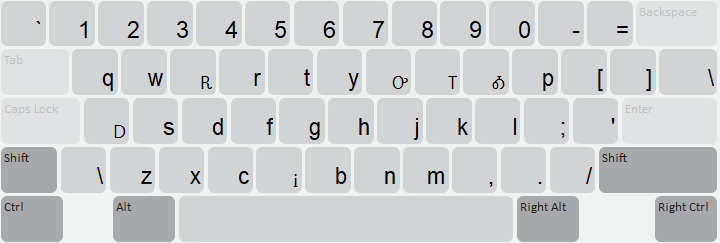
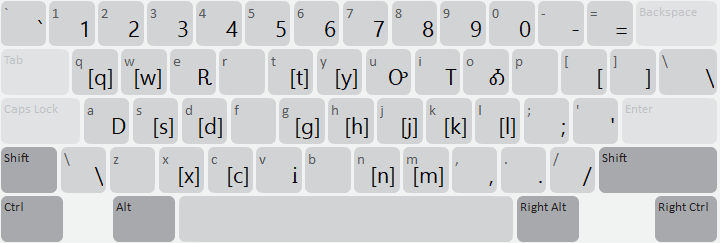
[basic_kbdcherp] Improve documentation of deadkeys

diff --git a/release/basic/basic_kbdcherp/source/welcome/welcome.htm b/release/basic/basic_kbdcherp/source/welcome/welcome.htm
@@ -63,23 +63,29 @@ item. The keyboard layout follows the Windows 10 Cherokee Nation Phonetic layout
 </p>
 
 <h1>Keyboard Layout</h1>
+<p>This keyboard utilizes dead keys to reach the Cherokee characters. The dead keys on this layout have square brackets around them. For example, "[q]" is a dead key.</p>
+
+  <h2>Desktop Keyboard layout</h2>
+	<h3>Default (unshifted)</h3>
+	<p><a href="LayoutU_.png"><img class="keyboard" src="LayoutU_.png" alt="Default (unshifted) state" /></a></p>
+	<h3>Shift</h3>
+	<p><a href="LayoutU_S.png"><img class="keyboard" src="LayoutU_S.png" alt="Shift state" /></a></p>
 
 <h2>Dead keys</h2>
-<pThis keyboard utilizes dead keys to reach the Cherokee characters.</p>
+<p>This keyboard utilizes dead keys to reach the Cherokee characters.</p>
 <p>Type the dead key (such as a "q") followed by a character in second row. The output will be the corresponding cell beneath the last character that was typed</p>
-<div class="group"><table class="" title="q"><tr><th colspan="7">q or Q</th></tr><tr><td title="U+0020 SPACE">&nbsp;</td><td title="U&#x2B;13A0 CHEROKEE LETTER A">Ꭰ</td><td title="U&#x2B;13A1 CHEROKEE LETTER E">Ꭱ</td><td title="U&#x2B;13A2 CHEROKEE LETTER I">Ꭲ</td><td title="U&#x2B;13A3 CHEROKEE LETTER O">Ꭳ</td><td title="U&#x2B;13A4 CHEROKEE LETTER U">Ꭴ</td><td title="U&#x2B;13A5 CHEROKEE LETTER V">Ꭵ</td></tr><tr><td title="U&#x2B;13CA CHEROKEE LETTER QUU">Ꮚ</td><td title="U&#x2B;13C6 CHEROKEE LETTER QUA">Ꮖ</td><td title="U&#x2B;13C7 CHEROKEE LETTER QUE">Ꮗ</td><td title="U&#x2B;13C8 CHEROKEE LETTER QUI">Ꮘ</td><td title="U&#x2B;13C9 CHEROKEE LETTER QUO">Ꮙ</td><th title="→ chained dead key 'QU'">Α</th><td title="U&#x2B;13CB CHEROKEE LETTER QUV">Ꮛ</td></tr></table></div>
+<div class="group"><table class="" title="q"><tr><th colspan="7">q or Q</th></tr><tr><td title="U+0020 SPACE">&nbsp;</td><td title="U&#x2B;13A0 CHEROKEE LETTER A">Ꭰ</td><td title="U&#x2B;13A1 CHEROKEE LETTER E">Ꭱ</td><td title="U&#x2B;13A2 CHEROKEE LETTER I">Ꭲ</td><td title="U&#x2B;13A3 CHEROKEE LETTER O">Ꭳ</td><td title="U&#x2B;13A5 CHEROKEE LETTER V">Ꭵ</td></tr><tr><td title="U&#x2B;13CA CHEROKEE LETTER QUU">Ꮚ</td><td title="U&#x2B;13C6 CHEROKEE LETTER QUA">Ꮖ</td><td title="U&#x2B;13C7 CHEROKEE LETTER QUE">Ꮗ</td><td title="U&#x2B;13C8 CHEROKEE LETTER QUI">Ꮘ</td><td title="U&#x2B;13C9 CHEROKEE LETTER QUO">Ꮙ</td><td title="U&#x2B;13CB CHEROKEE LETTER QUV">Ꮛ</td></tr></table></div>
 <div class="group"><table class="" title="w"><tr><th colspan="7">w or W</th></tr><tr><td title="U+0020 SPACE">&nbsp;</td><td title="U&#x2B;13A0 CHEROKEE LETTER A">Ꭰ</td><td title="U&#x2B;13A1 CHEROKEE LETTER E">Ꭱ</td><td title="U&#x2B;13A2 CHEROKEE LETTER I">Ꭲ</td><td title="U&#x2B;13A3 CHEROKEE LETTER O">Ꭳ</td><td title="U&#x2B;13A4 CHEROKEE LETTER U">Ꭴ</td><td title="U&#x2B;13A5 CHEROKEE LETTER V">Ꭵ</td></tr><tr><td title="U&#x2B;13E9 CHEROKEE LETTER WA">Ꮹ</td><td title="U&#x2B;13E9 CHEROKEE LETTER WA">Ꮹ</td><td title="U&#x2B;13EA CHEROKEE LETTER WE">Ꮺ</td><td title="U&#x2B;13EB CHEROKEE LETTER WI">Ꮻ</td><td title="U&#x2B;13EC CHEROKEE LETTER WO">Ꮼ</td><td title="U&#x2B;13ED CHEROKEE LETTER WU">Ꮽ</td><td title="U&#x2B;13EE CHEROKEE LETTER WV">Ꮾ</td></tr></table></div>
-<div class="group"><table class="" title="t"><tr><th colspan="12">t</th></tr><tr><td title="U&#x2B;0069 LATIN SMALL LETTER I">i</td><td title="U&#x2B;0049 LATIN CAPITAL LETTER I">I</td></tr><tr><th title="→ chained dead key 'TH'">Λ</th><th title="→ chained dead key 'TH'">Λ</th></tr></table></div>
-<div class="group"><table class="" title="T"><tr><th colspan="10">t or T</th></tr><tr><td title="U+0020 SPACE">&nbsp;</td><td title="U&#x2B;006C LATIN SMALL LETTER L">l</td><td title="U&#x2B;004C LATIN CAPITAL LETTER L">L</td><td title="U&#x2B;0073 LATIN SMALL LETTER S">s</td><td title="U&#x2B;0053 LATIN CAPITAL LETTER S">S</td><td title="U&#x2B;13A0 CHEROKEE LETTER A">Ꭰ</td><td title="U&#x2B;13A1 CHEROKEE LETTER E">Ꭱ</td><td title="U&#x2B;13A2 CHEROKEE LETTER I">Ꭲ</td><td title="U&#x2B;13A4 CHEROKEE LETTER U">Ꭴ</td><td title="U&#x2B;13A5 CHEROKEE LETTER V">Ꭵ</td></tr><tr><td title="U&#x2B;13D4 CHEROKEE LETTER TA">Ꮤ</td><th title="→ chained dead key 'TL'">Β</th><th title="→ chained dead key 'TL'">Β</th><th title="→ chained dead key 'TS'">Γ</th><th title="→ chained dead key 'TS'">Γ</th><td title="U&#x2B;13D4 CHEROKEE LETTER TA">Ꮤ</td><td title="U&#x2B;13D6 CHEROKEE LETTER TE">Ꮦ</td><td title="U&#x2B;13D8 CHEROKEE LETTER TI">Ꮨ</td><td title="U&#x2B;13DA CHEROKEE LETTER DU">Ꮪ</td><td title="U&#x2B;13DB CHEROKEE LETTER DV">Ꮫ</td></tr></table></div>
+<div class="group"><table class="" title="T"><tr><th colspan="10">t or T</th></tr><tr><td title="U+0020 SPACE">&nbsp;</td><td title="U&#x2B;13A0 CHEROKEE LETTER A">Ꭰ</td><td title="U&#x2B;13A1 CHEROKEE LETTER E">Ꭱ</td><td title="U&#x2B;13A2 CHEROKEE LETTER I">Ꭲ</td><td title="U&#x2B;13A4 CHEROKEE LETTER U">Ꭴ</td><td title="U&#x2B;13A5 CHEROKEE LETTER V">Ꭵ</td></tr><tr><td title="U&#x2B;13D4 CHEROKEE LETTER TA">Ꮤ</td><td title="U&#x2B;13D4 CHEROKEE LETTER TA">Ꮤ</td><td title="U&#x2B;13D6 CHEROKEE LETTER TE">Ꮦ</td><td title="U&#x2B;13D8 CHEROKEE LETTER TI">Ꮨ</td><td title="U&#x2B;13DA CHEROKEE LETTER DU">Ꮪ</td><td title="U&#x2B;13DB CHEROKEE LETTER DV">Ꮫ</td></tr></table></div>
 <div class="group"><table class="" title="y"><tr><th colspan="7">y or Y</th></tr><tr><td title="U+0020 SPACE">&nbsp;</td><td title="U&#x2B;13A0 CHEROKEE LETTER A">Ꭰ</td><td title="U&#x2B;13A1 CHEROKEE LETTER E">Ꭱ</td><td title="U&#x2B;13A2 CHEROKEE LETTER I">Ꭲ</td><td title="U&#x2B;13A3 CHEROKEE LETTER O">Ꭳ</td><td title="U&#x2B;13A4 CHEROKEE LETTER U">Ꭴ</td><td title="U&#x2B;13A5 CHEROKEE LETTER V">Ꭵ</td></tr><tr><td title="U&#x2B;13EF CHEROKEE LETTER YA">Ꮿ</td><td title="U&#x2B;13EF CHEROKEE LETTER YA">Ꮿ</td><td title="U&#x2B;13F0 CHEROKEE LETTER YE">Ᏸ</td><td title="U&#x2B;13F1 CHEROKEE LETTER YI">Ᏹ</td><td title="U&#x2B;13F2 CHEROKEE LETTER YO">Ᏺ</td><td title="U&#x2B;13F3 CHEROKEE LETTER YU">Ᏻ</td><td title="U&#x2B;13F4 CHEROKEE LETTER YV">Ᏼ</td></tr></table></div>
 		<div class="c"></div>
 <div class="group"><table class="" title="s"><tr><th colspan="10">s or S</th></tr><tr><td title="U+0020 SPACE">&nbsp;</td><td title="U&#x2B;0060 GRAVE ACCENT">`</td><td title="U&#x2B;0078 LATIN SMALL LETTER X">x</td><td title="U&#x2B;0058 LATIN CAPITAL LETTER X">X</td><td title="U&#x2B;13A0 CHEROKEE LETTER A">Ꭰ</td><td title="U&#x2B;13A1 CHEROKEE LETTER E">Ꭱ</td><td title="U&#x2B;13A2 CHEROKEE LETTER I">Ꭲ</td><td title="U&#x2B;13A3 CHEROKEE LETTER O">Ꭳ</td><td title="U&#x2B;13A4 CHEROKEE LETTER U">Ꭴ</td><td title="U&#x2B;13A5 CHEROKEE LETTER V">Ꭵ</td></tr><tr><td title="U&#x2B;13CD CHEROKEE LETTER S">Ꮝ</td><td title="U&#x2B;13CD CHEROKEE LETTER S">Ꮝ</td><td title="U&#x2B;13CD CHEROKEE LETTER S">Ꮝ</td><td title="U&#x2B;13CD CHEROKEE LETTER S">Ꮝ</td><td title="U&#x2B;13CC CHEROKEE LETTER SA">Ꮜ</td><td title="U&#x2B;13CE CHEROKEE LETTER SE">Ꮞ</td><td title="U&#x2B;13CF CHEROKEE LETTER SI">Ꮟ</td><td title="U&#x2B;13D0 CHEROKEE LETTER SO">Ꮠ</td><td title="U&#x2B;13D1 CHEROKEE LETTER SU">Ꮡ</td><td title="U&#x2B;13D2 CHEROKEE LETTER SV">Ꮢ</td></tr></table></div>
-<div class="group"><table class="" title="d"><tr><th colspan="13">d or D</th></tr><tr><td title="U+0020 SPACE">&nbsp;</td><td title="U&#x2B;0064 LATIN SMALL LETTER D">d</td><td title="U&#x2B;0044 LATIN CAPITAL LETTER D">D</td><td title="U&#x2B;006C LATIN SMALL LETTER L">l</td><td title="U&#x2B;004C LATIN CAPITAL LETTER L">L</td><td title="U&#x2B;0073 LATIN SMALL LETTER S">s</td><td title="U&#x2B;0053 LATIN CAPITAL LETTER S">S</td><td title="U&#x2B;13A0 CHEROKEE LETTER A">Ꭰ</td><td title="U&#x2B;13A1 CHEROKEE LETTER E">Ꭱ</td><td title="U&#x2B;13A2 CHEROKEE LETTER I">Ꭲ</td><td title="U&#x2B;13A3 CHEROKEE LETTER O">Ꭳ</td><td title="U&#x2B;13A4 CHEROKEE LETTER U">Ꭴ</td><td title="U&#x2B;13A5 CHEROKEE LETTER V">Ꭵ</td></tr><tr><td title="U&#x2B;13D3 CHEROKEE LETTER DA">Ꮣ</td><th title="→ chained dead key 'TH'">Λ</th><th title="→ chained dead key 'TH'">Λ</th><th title="→ chained dead key 'DL'">Δ</th><th title="→ chained dead key 'DL'">Δ</th><th title="→ chained dead key 'DS'">Θ</th><th title="→ chained dead key 'DS'">Θ</th><td title="U&#x2B;13D3 CHEROKEE LETTER DA">Ꮣ</td><td title="U&#x2B;13D5 CHEROKEE LETTER DE">Ꮥ</td><td title="U&#x2B;13D7 CHEROKEE LETTER DI">Ꮧ</td><td title="U&#x2B;13D9 CHEROKEE LETTER DO">Ꮩ</td><td title="U&#x2B;13DA CHEROKEE LETTER DU">Ꮪ</td><td title="U&#x2B;13DB CHEROKEE LETTER DV">Ꮫ</td></tr></table></div>
-<div class="group"><table class="" title="g"><tr><th colspan="11">g or G</th></tr><tr><td title="U+0020 SPACE">&nbsp;</td><td title="U&#x2B;0068 LATIN SMALL LETTER H">h</td><td title="U&#x2B;0048 LATIN CAPITAL LETTER H">H</td><td title="U&#x2B;0077 LATIN SMALL LETTER W">w</td><td title="U&#x2B;0057 LATIN CAPITAL LETTER W">W</td><td title="U&#x2B;13A0 CHEROKEE LETTER A">Ꭰ</td><td title="U&#x2B;13A1 CHEROKEE LETTER E">Ꭱ</td><td title="U&#x2B;13A2 CHEROKEE LETTER I">Ꭲ</td><td title="U&#x2B;13A3 CHEROKEE LETTER O">Ꭳ</td><td title="U&#x2B;13A4 CHEROKEE LETTER U">Ꭴ</td><td title="U&#x2B;13A5 CHEROKEE LETTER V">Ꭵ</td></tr><tr><td title="U&#x2B;13A6 CHEROKEE LETTER GA">Ꭶ</td><th title="→ chained dead key 'GH'">Κ</th><th title="→ chained dead key 'GH'">Κ</th><th title="→ chained dead key 'GW'">Ζ</th><th title="→ chained dead key 'GW'">Ζ</th><td title="U&#x2B;13A6 CHEROKEE LETTER GA">Ꭶ</td><td title="U&#x2B;13A8 CHEROKEE LETTER GE">Ꭸ</td><td title="U&#x2B;13A9 CHEROKEE LETTER GI">Ꭹ</td><td title="U&#x2B;13AA CHEROKEE LETTER GO">Ꭺ</td><td title="U&#x2B;13AB CHEROKEE LETTER GU">Ꭻ</td><td title="U&#x2B;13AC CHEROKEE LETTER GV">Ꭼ</td></tr></table></div>
+<div class="group"><table class="" title="d"><tr><th colspan="13">d or D</th></tr><tr><td title="U+0020 SPACE">&nbsp;</td><td title="U&#x2B;13A0 CHEROKEE LETTER A">Ꭰ</td><td title="U&#x2B;13A1 CHEROKEE LETTER E">Ꭱ</td><td title="U&#x2B;13A2 CHEROKEE LETTER I">Ꭲ</td><td title="U&#x2B;13A3 CHEROKEE LETTER O">Ꭳ</td><td title="U&#x2B;13A4 CHEROKEE LETTER U">Ꭴ</td><td title="U&#x2B;13A5 CHEROKEE LETTER V">Ꭵ</td></tr><tr><td title="U&#x2B;13D3 CHEROKEE LETTER DA">Ꮣ</td><td title="U&#x2B;13D3 CHEROKEE LETTER DA">Ꮣ</td><td title="U&#x2B;13D5 CHEROKEE LETTER DE">Ꮥ</td><td title="U&#x2B;13D7 CHEROKEE LETTER DI">Ꮧ</td><td title="U&#x2B;13D9 CHEROKEE LETTER DO">Ꮩ</td><td title="U&#x2B;13DA CHEROKEE LETTER DU">Ꮪ</td><td title="U&#x2B;13DB CHEROKEE LETTER DV">Ꮫ</td></tr></table></div>
+<div class="group"><table class="" title="g"><tr><th colspan="11">g or G</th></tr><tr><td title="U+0020 SPACE">&nbsp;</td><td title="U&#x2B;13A0 CHEROKEE LETTER A">Ꭰ</td><td title="U&#x2B;13A1 CHEROKEE LETTER E">Ꭱ</td><td title="U&#x2B;13A2 CHEROKEE LETTER I">Ꭲ</td><td title="U&#x2B;13A3 CHEROKEE LETTER O">Ꭳ</td><td title="U&#x2B;13A4 CHEROKEE LETTER U">Ꭴ</td><td title="U&#x2B;13A5 CHEROKEE LETTER V">Ꭵ</td></tr><tr><td title="U&#x2B;13A6 CHEROKEE LETTER GA">Ꭶ</td><td title="U&#x2B;13A6 CHEROKEE LETTER GA">Ꭶ</td><td title="U&#x2B;13A8 CHEROKEE LETTER GE">Ꭸ</td><td title="U&#x2B;13A9 CHEROKEE LETTER GI">Ꭹ</td><td title="U&#x2B;13AA CHEROKEE LETTER GO">Ꭺ</td><td title="U&#x2B;13AB CHEROKEE LETTER GU">Ꭻ</td><td title="U&#x2B;13AC CHEROKEE LETTER GV">Ꭼ</td></tr></table></div>
 		<div class="c"></div>
-<div class="group"><table class="" title="h"><tr><th colspan="9">h or H</th></tr><tr><td title="U+0020 SPACE">&nbsp;</td><td title="U&#x2B;006E LATIN SMALL LETTER N">n</td><td title="U&#x2B;004E LATIN CAPITAL LETTER N">N</td><td title="U&#x2B;13A0 CHEROKEE LETTER A">Ꭰ</td><td title="U&#x2B;13A1 CHEROKEE LETTER E">Ꭱ</td><td title="U&#x2B;13A2 CHEROKEE LETTER I">Ꭲ</td><td title="U&#x2B;13A3 CHEROKEE LETTER O">Ꭳ</td><td title="U&#x2B;13A4 CHEROKEE LETTER U">Ꭴ</td><td title="U&#x2B;13A5 CHEROKEE LETTER V">Ꭵ</td></tr><tr><td title="U&#x2B;13AD CHEROKEE LETTER HA">Ꭽ</td><th title="→ chained dead key 'HN'">Ε</th><th title="→ chained dead key 'HN'">Ε</th><td title="U&#x2B;13AD CHEROKEE LETTER HA">Ꭽ</td><td title="U&#x2B;13AE CHEROKEE LETTER HE">Ꭾ</td><td title="U&#x2B;13AF CHEROKEE LETTER HI">Ꭿ</td><td title="U&#x2B;13B0 CHEROKEE LETTER HO">Ꮀ</td><td title="U&#x2B;13B1 CHEROKEE LETTER HU">Ꮁ</td><td title="U&#x2B;13B2 CHEROKEE LETTER HV">Ꮂ</td></tr></table></div>
+<div class="group"><table class="" title="h"><tr><th colspan="9">h or H</th></tr><tr><td title="U+0020 SPACE">&nbsp;</td><td title="U&#x2B;13A0 CHEROKEE LETTER A">Ꭰ</td><td title="U&#x2B;13A1 CHEROKEE LETTER E">Ꭱ</td><td title="U&#x2B;13A2 CHEROKEE LETTER I">Ꭲ</td><td title="U&#x2B;13A3 CHEROKEE LETTER O">Ꭳ</td><td title="U&#x2B;13A4 CHEROKEE LETTER U">Ꭴ</td><td title="U&#x2B;13A5 CHEROKEE LETTER V">Ꭵ</td></tr><tr><td title="U&#x2B;13AD CHEROKEE LETTER HA">Ꭽ</td><td title="U&#x2B;13AD CHEROKEE LETTER HA">Ꭽ</td><td title="U&#x2B;13AE CHEROKEE LETTER HE">Ꭾ</td><td title="U&#x2B;13AF CHEROKEE LETTER HI">Ꭿ</td><td title="U&#x2B;13B0 CHEROKEE LETTER HO">Ꮀ</td><td title="U&#x2B;13B1 CHEROKEE LETTER HU">Ꮁ</td><td title="U&#x2B;13B2 CHEROKEE LETTER HV">Ꮂ</td></tr></table></div>
 <div class="group"><table class=""><tr><th colspan="7">j or J</th></tr><tr><td title="U+0020 SPACE">&nbsp;</td><td title="U&#x2B;13A0 CHEROKEE LETTER A">Ꭰ</td><td title="U&#x2B;13A1 CHEROKEE LETTER E">Ꭱ</td><td title="U&#x2B;13A2 CHEROKEE LETTER I">Ꭲ</td><td title="U&#x2B;13A3 CHEROKEE LETTER O">Ꭳ</td><td title="U&#x2B;13A4 CHEROKEE LETTER U">Ꭴ</td><td title="U&#x2B;13A5 CHEROKEE LETTER V">Ꭵ</td></tr><tr><td title="U&#x2B;13E3 CHEROKEE LETTER TSA">Ꮳ</td><td title="U&#x2B;13E3 CHEROKEE LETTER TSA">Ꮳ</td><td title="U&#x2B;13E4 CHEROKEE LETTER TSE">Ꮴ</td><td title="U&#x2B;13E5 CHEROKEE LETTER TSI">Ꮵ</td><td title="U&#x2B;13E6 CHEROKEE LETTER TSO">Ꮶ</td><td title="U&#x2B;13E7 CHEROKEE LETTER TSU">Ꮷ</td><td title="U&#x2B;13E8 CHEROKEE LETTER TSV">Ꮸ</td></tr></table></div>
-<div class="group"><table class="" title="k"><tr><th colspan="7">k or K</th></tr><tr><td title="U+0020 SPACE">&nbsp;</td><td title="U&#x2B;0068 LATIN SMALL LETTER H">h</td><td title="U&#x2B;0048 LATIN CAPITAL LETTER H">H</td><td title="U&#x2B;0077 LATIN SMALL LETTER W">w</td><td title="U&#x2B;0057 LATIN CAPITAL LETTER W">W</td><td title="U&#x2B;13A0 CHEROKEE LETTER A">Ꭰ</td><td title="U&#x2B;13A3 CHEROKEE LETTER O">Ꭳ</td></tr><tr><td title="U&#x2B;13A7 CHEROKEE LETTER KA">Ꭷ</td><th title="→ chained dead key 'KH'">Ι</th><th title="→ chained dead key 'KH'">Ι</th><th title="→ chained dead key 'KW'">Η</th><th title="→ chained dead key 'KW'">Η</th><td title="U&#x2B;13A7 CHEROKEE LETTER KA">Ꭷ</td><td title="U&#x2B;13AA CHEROKEE LETTER GO">Ꭺ</td></tr></table></div>
+<div class="group"><table class="" title="k"><tr><th colspan="7">k or K</th></tr><tr><td title="U+0020 SPACE">&nbsp;</td><td title="U&#x2B;13A0 CHEROKEE LETTER A">Ꭰ</td><td title="U&#x2B;13A3 CHEROKEE LETTER O">Ꭳ</td></tr><tr><td title="U&#x2B;13A7 CHEROKEE LETTER KA">Ꭷ</td><td title="U&#x2B;13A7 CHEROKEE LETTER KA">Ꭷ</td><td title="U&#x2B;13AA CHEROKEE LETTER GO">Ꭺ</td></tr></table></div>
 <div class="group"><table class="" title="l or L"><tr><th colspan="7">l</th></tr><tr><td title="U+0020 SPACE">&nbsp;</td><td title="U&#x2B;13A0 CHEROKEE LETTER A">Ꭰ</td><td title="U&#x2B;13A1 CHEROKEE LETTER E">Ꭱ</td><td title="U&#x2B;13A2 CHEROKEE LETTER I">Ꭲ</td><td title="U&#x2B;13A3 CHEROKEE LETTER O">Ꭳ</td><td title="U&#x2B;13A4 CHEROKEE LETTER U">Ꭴ</td><td title="U&#x2B;13A5 CHEROKEE LETTER V">Ꭵ</td></tr><tr><td title="U&#x2B;13B3 CHEROKEE LETTER LA">Ꮃ</td><td title="U&#x2B;13B3 CHEROKEE LETTER LA">Ꮃ</td><td title="U&#x2B;13B4 CHEROKEE LETTER LE">Ꮄ</td><td title="U&#x2B;13B5 CHEROKEE LETTER LI">Ꮅ</td><td title="U&#x2B;13B6 CHEROKEE LETTER LO">Ꮆ</td><td title="U&#x2B;13B7 CHEROKEE LETTER LU">Ꮇ</td><td title="U&#x2B;13B8 CHEROKEE LETTER LV">Ꮈ</td></tr></table></div>
 		<div class="c"></div>
 <div class="group"><table class="" title="x"><tr><th colspan="1">x or X</th></tr><tr><td title="U+0020 SPACE">&nbsp;</td></tr><tr><td title="U&#x2B;0078 LATIN SMALL LETTER X">x</td></tr></table></div>
@@ -89,11 +95,6 @@ item. The keyboard layout follows the Windows 10 Cherokee Nation Phonetic layout
 		<div class="c"></div>
 
 	</div>
-  <h2>Desktop Keyboard layout</h2>
-	<h3>Default (unshifted)</h3>
-	<p><a href="LayoutU_.png"><img class="keyboard" src="LayoutU_.png" alt="Default (unshifted) state" /></a></p>
-	<h3>Shift</h3>
-	<p><a href="LayoutU_S.png"><img class="keyboard" src="LayoutU_S.png" alt="Shift state" /></a></p>
 
 
 

diff --git a/release/basic/basic_kbdcherp/source/help/basic_kbdcherp.php b/release/basic/basic_kbdcherp/source/help/basic_kbdcherp.php
@@ -46,24 +46,30 @@ which can be viewed by clicking on the Keyman icon and selecting the On Screen K
 item. The keyboard layout follows the Windows 10 Cherokee Nation Phonetic layout.
 </p>
 
+<h1>Keyboard Layout</h1>
+<p>This keyboard utilizes dead keys to reach the Cherokee characters. The dead keys on this layout have square brackets around them. For example, "[q]" is a dead key.</p>
+
+
 <h2>Keyboard Layout</h1>
+<h2>Desktop Keyboard Layout</h2>
+<div id='osk' data-states='default shift'>
+</div>
 
 <h2>Dead keys</h2>
-<pThis keyboard utilizes dead keys to reach the Cherokee characters.</p>
+<p>This keyboard utilizes dead keys to reach the Cherokee characters.</p>
 <p>Type the dead key (such as a "q") followed by a character in second row. The output will be the corresponding cell beneath the last character that was typed</p>
-<div class="group"><table class="" title="q"><tr><th colspan="7">q or Q</th></tr><tr><td title="U+0020 SPACE">&nbsp;</td><td title="U&#x2B;13A0 CHEROKEE LETTER A">Ꭰ</td><td title="U&#x2B;13A1 CHEROKEE LETTER E">Ꭱ</td><td title="U&#x2B;13A2 CHEROKEE LETTER I">Ꭲ</td><td title="U&#x2B;13A3 CHEROKEE LETTER O">Ꭳ</td><td title="U&#x2B;13A4 CHEROKEE LETTER U">Ꭴ</td><td title="U&#x2B;13A5 CHEROKEE LETTER V">Ꭵ</td></tr><tr><td title="U&#x2B;13CA CHEROKEE LETTER QUU">Ꮚ</td><td title="U&#x2B;13C6 CHEROKEE LETTER QUA">Ꮖ</td><td title="U&#x2B;13C7 CHEROKEE LETTER QUE">Ꮗ</td><td title="U&#x2B;13C8 CHEROKEE LETTER QUI">Ꮘ</td><td title="U&#x2B;13C9 CHEROKEE LETTER QUO">Ꮙ</td><th title="→ chained dead key 'QU'">Α</th><td title="U&#x2B;13CB CHEROKEE LETTER QUV">Ꮛ</td></tr></table></div>
+<div class="group"><table class="" title="q"><tr><th colspan="7">q or Q</th></tr><tr><td title="U+0020 SPACE">&nbsp;</td><td title="U&#x2B;13A0 CHEROKEE LETTER A">Ꭰ</td><td title="U&#x2B;13A1 CHEROKEE LETTER E">Ꭱ</td><td title="U&#x2B;13A2 CHEROKEE LETTER I">Ꭲ</td><td title="U&#x2B;13A3 CHEROKEE LETTER O">Ꭳ</td><td title="U&#x2B;13A5 CHEROKEE LETTER V">Ꭵ</td></tr><tr><td title="U&#x2B;13CA CHEROKEE LETTER QUU">Ꮚ</td><td title="U&#x2B;13C6 CHEROKEE LETTER QUA">Ꮖ</td><td title="U&#x2B;13C7 CHEROKEE LETTER QUE">Ꮗ</td><td title="U&#x2B;13C8 CHEROKEE LETTER QUI">Ꮘ</td><td title="U&#x2B;13C9 CHEROKEE LETTER QUO">Ꮙ</td><td title="U&#x2B;13CB CHEROKEE LETTER QUV">Ꮛ</td></tr></table></div>
 <div class="group"><table class="" title="w"><tr><th colspan="7">w or W</th></tr><tr><td title="U+0020 SPACE">&nbsp;</td><td title="U&#x2B;13A0 CHEROKEE LETTER A">Ꭰ</td><td title="U&#x2B;13A1 CHEROKEE LETTER E">Ꭱ</td><td title="U&#x2B;13A2 CHEROKEE LETTER I">Ꭲ</td><td title="U&#x2B;13A3 CHEROKEE LETTER O">Ꭳ</td><td title="U&#x2B;13A4 CHEROKEE LETTER U">Ꭴ</td><td title="U&#x2B;13A5 CHEROKEE LETTER V">Ꭵ</td></tr><tr><td title="U&#x2B;13E9 CHEROKEE LETTER WA">Ꮹ</td><td title="U&#x2B;13E9 CHEROKEE LETTER WA">Ꮹ</td><td title="U&#x2B;13EA CHEROKEE LETTER WE">Ꮺ</td><td title="U&#x2B;13EB CHEROKEE LETTER WI">Ꮻ</td><td title="U&#x2B;13EC CHEROKEE LETTER WO">Ꮼ</td><td title="U&#x2B;13ED CHEROKEE LETTER WU">Ꮽ</td><td title="U&#x2B;13EE CHEROKEE LETTER WV">Ꮾ</td></tr></table></div>
-<div class="group"><table class="" title="t"><tr><th colspan="12">t</th></tr><tr><td title="U&#x2B;0069 LATIN SMALL LETTER I">i</td><td title="U&#x2B;0049 LATIN CAPITAL LETTER I">I</td></tr><tr><th title="→ chained dead key 'TH'">Λ</th><th title="→ chained dead key 'TH'">Λ</th></tr></table></div>
-<div class="group"><table class="" title="T"><tr><th colspan="10">t or T</th></tr><tr><td title="U+0020 SPACE">&nbsp;</td><td title="U&#x2B;006C LATIN SMALL LETTER L">l</td><td title="U&#x2B;004C LATIN CAPITAL LETTER L">L</td><td title="U&#x2B;0073 LATIN SMALL LETTER S">s</td><td title="U&#x2B;0053 LATIN CAPITAL LETTER S">S</td><td title="U&#x2B;13A0 CHEROKEE LETTER A">Ꭰ</td><td title="U&#x2B;13A1 CHEROKEE LETTER E">Ꭱ</td><td title="U&#x2B;13A2 CHEROKEE LETTER I">Ꭲ</td><td title="U&#x2B;13A4 CHEROKEE LETTER U">Ꭴ</td><td title="U&#x2B;13A5 CHEROKEE LETTER V">Ꭵ</td></tr><tr><td title="U&#x2B;13D4 CHEROKEE LETTER TA">Ꮤ</td><th title="→ chained dead key 'TL'">Β</th><th title="→ chained dead key 'TL'">Β</th><th title="→ chained dead key 'TS'">Γ</th><th title="→ chained dead key 'TS'">Γ</th><td title="U&#x2B;13D4 CHEROKEE LETTER TA">Ꮤ</td><td title="U&#x2B;13D6 CHEROKEE LETTER TE">Ꮦ</td><td title="U&#x2B;13D8 CHEROKEE LETTER TI">Ꮨ</td><td title="U&#x2B;13DA CHEROKEE LETTER DU">Ꮪ</td><td title="U&#x2B;13DB CHEROKEE LETTER DV">Ꮫ</td></tr></table></div>
+<div class="group"><table class="" title="T"><tr><th colspan="10">t or T</th></tr><tr><td title="U+0020 SPACE">&nbsp;</td><td title="U&#x2B;13A0 CHEROKEE LETTER A">Ꭰ</td><td title="U&#x2B;13A1 CHEROKEE LETTER E">Ꭱ</td><td title="U&#x2B;13A2 CHEROKEE LETTER I">Ꭲ</td><td title="U&#x2B;13A4 CHEROKEE LETTER U">Ꭴ</td><td title="U&#x2B;13A5 CHEROKEE LETTER V">Ꭵ</td></tr><tr><td title="U&#x2B;13D4 CHEROKEE LETTER TA">Ꮤ</td><td title="U&#x2B;13D4 CHEROKEE LETTER TA">Ꮤ</td><td title="U&#x2B;13D6 CHEROKEE LETTER TE">Ꮦ</td><td title="U&#x2B;13D8 CHEROKEE LETTER TI">Ꮨ</td><td title="U&#x2B;13DA CHEROKEE LETTER DU">Ꮪ</td><td title="U&#x2B;13DB CHEROKEE LETTER DV">Ꮫ</td></tr></table></div>
 <div class="group"><table class="" title="y"><tr><th colspan="7">y or Y</th></tr><tr><td title="U+0020 SPACE">&nbsp;</td><td title="U&#x2B;13A0 CHEROKEE LETTER A">Ꭰ</td><td title="U&#x2B;13A1 CHEROKEE LETTER E">Ꭱ</td><td title="U&#x2B;13A2 CHEROKEE LETTER I">Ꭲ</td><td title="U&#x2B;13A3 CHEROKEE LETTER O">Ꭳ</td><td title="U&#x2B;13A4 CHEROKEE LETTER U">Ꭴ</td><td title="U&#x2B;13A5 CHEROKEE LETTER V">Ꭵ</td></tr><tr><td title="U&#x2B;13EF CHEROKEE LETTER YA">Ꮿ</td><td title="U&#x2B;13EF CHEROKEE LETTER YA">Ꮿ</td><td title="U&#x2B;13F0 CHEROKEE LETTER YE">Ᏸ</td><td title="U&#x2B;13F1 CHEROKEE LETTER YI">Ᏹ</td><td title="U&#x2B;13F2 CHEROKEE LETTER YO">Ᏺ</td><td title="U&#x2B;13F3 CHEROKEE LETTER YU">Ᏻ</td><td title="U&#x2B;13F4 CHEROKEE LETTER YV">Ᏼ</td></tr></table></div>
 		<div class="c"></div>
 <div class="group"><table class="" title="s"><tr><th colspan="10">s or S</th></tr><tr><td title="U+0020 SPACE">&nbsp;</td><td title="U&#x2B;0060 GRAVE ACCENT">`</td><td title="U&#x2B;0078 LATIN SMALL LETTER X">x</td><td title="U&#x2B;0058 LATIN CAPITAL LETTER X">X</td><td title="U&#x2B;13A0 CHEROKEE LETTER A">Ꭰ</td><td title="U&#x2B;13A1 CHEROKEE LETTER E">Ꭱ</td><td title="U&#x2B;13A2 CHEROKEE LETTER I">Ꭲ</td><td title="U&#x2B;13A3 CHEROKEE LETTER O">Ꭳ</td><td title="U&#x2B;13A4 CHEROKEE LETTER U">Ꭴ</td><td title="U&#x2B;13A5 CHEROKEE LETTER V">Ꭵ</td></tr><tr><td title="U&#x2B;13CD CHEROKEE LETTER S">Ꮝ</td><td title="U&#x2B;13CD CHEROKEE LETTER S">Ꮝ</td><td title="U&#x2B;13CD CHEROKEE LETTER S">Ꮝ</td><td title="U&#x2B;13CD CHEROKEE LETTER S">Ꮝ</td><td title="U&#x2B;13CC CHEROKEE LETTER SA">Ꮜ</td><td title="U&#x2B;13CE CHEROKEE LETTER SE">Ꮞ</td><td title="U&#x2B;13CF CHEROKEE LETTER SI">Ꮟ</td><td title="U&#x2B;13D0 CHEROKEE LETTER SO">Ꮠ</td><td title="U&#x2B;13D1 CHEROKEE LETTER SU">Ꮡ</td><td title="U&#x2B;13D2 CHEROKEE LETTER SV">Ꮢ</td></tr></table></div>
-<div class="group"><table class="" title="d"><tr><th colspan="13">d or D</th></tr><tr><td title="U+0020 SPACE">&nbsp;</td><td title="U&#x2B;0064 LATIN SMALL LETTER D">d</td><td title="U&#x2B;0044 LATIN CAPITAL LETTER D">D</td><td title="U&#x2B;006C LATIN SMALL LETTER L">l</td><td title="U&#x2B;004C LATIN CAPITAL LETTER L">L</td><td title="U&#x2B;0073 LATIN SMALL LETTER S">s</td><td title="U&#x2B;0053 LATIN CAPITAL LETTER S">S</td><td title="U&#x2B;13A0 CHEROKEE LETTER A">Ꭰ</td><td title="U&#x2B;13A1 CHEROKEE LETTER E">Ꭱ</td><td title="U&#x2B;13A2 CHEROKEE LETTER I">Ꭲ</td><td title="U&#x2B;13A3 CHEROKEE LETTER O">Ꭳ</td><td title="U&#x2B;13A4 CHEROKEE LETTER U">Ꭴ</td><td title="U&#x2B;13A5 CHEROKEE LETTER V">Ꭵ</td></tr><tr><td title="U&#x2B;13D3 CHEROKEE LETTER DA">Ꮣ</td><th title="→ chained dead key 'TH'">Λ</th><th title="→ chained dead key 'TH'">Λ</th><th title="→ chained dead key 'DL'">Δ</th><th title="→ chained dead key 'DL'">Δ</th><th title="→ chained dead key 'DS'">Θ</th><th title="→ chained dead key 'DS'">Θ</th><td title="U&#x2B;13D3 CHEROKEE LETTER DA">Ꮣ</td><td title="U&#x2B;13D5 CHEROKEE LETTER DE">Ꮥ</td><td title="U&#x2B;13D7 CHEROKEE LETTER DI">Ꮧ</td><td title="U&#x2B;13D9 CHEROKEE LETTER DO">Ꮩ</td><td title="U&#x2B;13DA CHEROKEE LETTER DU">Ꮪ</td><td title="U&#x2B;13DB CHEROKEE LETTER DV">Ꮫ</td></tr></table></div>
-<div class="group"><table class="" title="g"><tr><th colspan="11">g or G</th></tr><tr><td title="U+0020 SPACE">&nbsp;</td><td title="U&#x2B;0068 LATIN SMALL LETTER H">h</td><td title="U&#x2B;0048 LATIN CAPITAL LETTER H">H</td><td title="U&#x2B;0077 LATIN SMALL LETTER W">w</td><td title="U&#x2B;0057 LATIN CAPITAL LETTER W">W</td><td title="U&#x2B;13A0 CHEROKEE LETTER A">Ꭰ</td><td title="U&#x2B;13A1 CHEROKEE LETTER E">Ꭱ</td><td title="U&#x2B;13A2 CHEROKEE LETTER I">Ꭲ</td><td title="U&#x2B;13A3 CHEROKEE LETTER O">Ꭳ</td><td title="U&#x2B;13A4 CHEROKEE LETTER U">Ꭴ</td><td title="U&#x2B;13A5 CHEROKEE LETTER V">Ꭵ</td></tr><tr><td title="U&#x2B;13A6 CHEROKEE LETTER GA">Ꭶ</td><th title="→ chained dead key 'GH'">Κ</th><th title="→ chained dead key 'GH'">Κ</th><th title="→ chained dead key 'GW'">Ζ</th><th title="→ chained dead key 'GW'">Ζ</th><td title="U&#x2B;13A6 CHEROKEE LETTER GA">Ꭶ</td><td title="U&#x2B;13A8 CHEROKEE LETTER GE">Ꭸ</td><td title="U&#x2B;13A9 CHEROKEE LETTER GI">Ꭹ</td><td title="U&#x2B;13AA CHEROKEE LETTER GO">Ꭺ</td><td title="U&#x2B;13AB CHEROKEE LETTER GU">Ꭻ</td><td title="U&#x2B;13AC CHEROKEE LETTER GV">Ꭼ</td></tr></table></div>
+<div class="group"><table class="" title="d"><tr><th colspan="13">d or D</th></tr><tr><td title="U+0020 SPACE">&nbsp;</td><td title="U&#x2B;13A0 CHEROKEE LETTER A">Ꭰ</td><td title="U&#x2B;13A1 CHEROKEE LETTER E">Ꭱ</td><td title="U&#x2B;13A2 CHEROKEE LETTER I">Ꭲ</td><td title="U&#x2B;13A3 CHEROKEE LETTER O">Ꭳ</td><td title="U&#x2B;13A4 CHEROKEE LETTER U">Ꭴ</td><td title="U&#x2B;13A5 CHEROKEE LETTER V">Ꭵ</td></tr><tr><td title="U&#x2B;13D3 CHEROKEE LETTER DA">Ꮣ</td><td title="U&#x2B;13D3 CHEROKEE LETTER DA">Ꮣ</td><td title="U&#x2B;13D5 CHEROKEE LETTER DE">Ꮥ</td><td title="U&#x2B;13D7 CHEROKEE LETTER DI">Ꮧ</td><td title="U&#x2B;13D9 CHEROKEE LETTER DO">Ꮩ</td><td title="U&#x2B;13DA CHEROKEE LETTER DU">Ꮪ</td><td title="U&#x2B;13DB CHEROKEE LETTER DV">Ꮫ</td></tr></table></div>
+<div class="group"><table class="" title="g"><tr><th colspan="11">g or G</th></tr><tr><td title="U+0020 SPACE">&nbsp;</td><td title="U&#x2B;13A0 CHEROKEE LETTER A">Ꭰ</td><td title="U&#x2B;13A1 CHEROKEE LETTER E">Ꭱ</td><td title="U&#x2B;13A2 CHEROKEE LETTER I">Ꭲ</td><td title="U&#x2B;13A3 CHEROKEE LETTER O">Ꭳ</td><td title="U&#x2B;13A4 CHEROKEE LETTER U">Ꭴ</td><td title="U&#x2B;13A5 CHEROKEE LETTER V">Ꭵ</td></tr><tr><td title="U&#x2B;13A6 CHEROKEE LETTER GA">Ꭶ</td><td title="U&#x2B;13A6 CHEROKEE LETTER GA">Ꭶ</td><td title="U&#x2B;13A8 CHEROKEE LETTER GE">Ꭸ</td><td title="U&#x2B;13A9 CHEROKEE LETTER GI">Ꭹ</td><td title="U&#x2B;13AA CHEROKEE LETTER GO">Ꭺ</td><td title="U&#x2B;13AB CHEROKEE LETTER GU">Ꭻ</td><td title="U&#x2B;13AC CHEROKEE LETTER GV">Ꭼ</td></tr></table></div>
 		<div class="c"></div>
-<div class="group"><table class="" title="h"><tr><th colspan="9">h or H</th></tr><tr><td title="U+0020 SPACE">&nbsp;</td><td title="U&#x2B;006E LATIN SMALL LETTER N">n</td><td title="U&#x2B;004E LATIN CAPITAL LETTER N">N</td><td title="U&#x2B;13A0 CHEROKEE LETTER A">Ꭰ</td><td title="U&#x2B;13A1 CHEROKEE LETTER E">Ꭱ</td><td title="U&#x2B;13A2 CHEROKEE LETTER I">Ꭲ</td><td title="U&#x2B;13A3 CHEROKEE LETTER O">Ꭳ</td><td title="U&#x2B;13A4 CHEROKEE LETTER U">Ꭴ</td><td title="U&#x2B;13A5 CHEROKEE LETTER V">Ꭵ</td></tr><tr><td title="U&#x2B;13AD CHEROKEE LETTER HA">Ꭽ</td><th title="→ chained dead key 'HN'">Ε</th><th title="→ chained dead key 'HN'">Ε</th><td title="U&#x2B;13AD CHEROKEE LETTER HA">Ꭽ</td><td title="U&#x2B;13AE CHEROKEE LETTER HE">Ꭾ</td><td title="U&#x2B;13AF CHEROKEE LETTER HI">Ꭿ</td><td title="U&#x2B;13B0 CHEROKEE LETTER HO">Ꮀ</td><td title="U&#x2B;13B1 CHEROKEE LETTER HU">Ꮁ</td><td title="U&#x2B;13B2 CHEROKEE LETTER HV">Ꮂ</td></tr></table></div>
+<div class="group"><table class="" title="h"><tr><th colspan="9">h or H</th></tr><tr><td title="U+0020 SPACE">&nbsp;</td><td title="U&#x2B;13A0 CHEROKEE LETTER A">Ꭰ</td><td title="U&#x2B;13A1 CHEROKEE LETTER E">Ꭱ</td><td title="U&#x2B;13A2 CHEROKEE LETTER I">Ꭲ</td><td title="U&#x2B;13A3 CHEROKEE LETTER O">Ꭳ</td><td title="U&#x2B;13A4 CHEROKEE LETTER U">Ꭴ</td><td title="U&#x2B;13A5 CHEROKEE LETTER V">Ꭵ</td></tr><tr><td title="U&#x2B;13AD CHEROKEE LETTER HA">Ꭽ</td><td title="U&#x2B;13AD CHEROKEE LETTER HA">Ꭽ</td><td title="U&#x2B;13AE CHEROKEE LETTER HE">Ꭾ</td><td title="U&#x2B;13AF CHEROKEE LETTER HI">Ꭿ</td><td title="U&#x2B;13B0 CHEROKEE LETTER HO">Ꮀ</td><td title="U&#x2B;13B1 CHEROKEE LETTER HU">Ꮁ</td><td title="U&#x2B;13B2 CHEROKEE LETTER HV">Ꮂ</td></tr></table></div>
 <div class="group"><table class=""><tr><th colspan="7">j or J</th></tr><tr><td title="U+0020 SPACE">&nbsp;</td><td title="U&#x2B;13A0 CHEROKEE LETTER A">Ꭰ</td><td title="U&#x2B;13A1 CHEROKEE LETTER E">Ꭱ</td><td title="U&#x2B;13A2 CHEROKEE LETTER I">Ꭲ</td><td title="U&#x2B;13A3 CHEROKEE LETTER O">Ꭳ</td><td title="U&#x2B;13A4 CHEROKEE LETTER U">Ꭴ</td><td title="U&#x2B;13A5 CHEROKEE LETTER V">Ꭵ</td></tr><tr><td title="U&#x2B;13E3 CHEROKEE LETTER TSA">Ꮳ</td><td title="U&#x2B;13E3 CHEROKEE LETTER TSA">Ꮳ</td><td title="U&#x2B;13E4 CHEROKEE LETTER TSE">Ꮴ</td><td title="U&#x2B;13E5 CHEROKEE LETTER TSI">Ꮵ</td><td title="U&#x2B;13E6 CHEROKEE LETTER TSO">Ꮶ</td><td title="U&#x2B;13E7 CHEROKEE LETTER TSU">Ꮷ</td><td title="U&#x2B;13E8 CHEROKEE LETTER TSV">Ꮸ</td></tr></table></div>
-<div class="group"><table class="" title="k"><tr><th colspan="7">k or K</th></tr><tr><td title="U+0020 SPACE">&nbsp;</td><td title="U&#x2B;0068 LATIN SMALL LETTER H">h</td><td title="U&#x2B;0048 LATIN CAPITAL LETTER H">H</td><td title="U&#x2B;0077 LATIN SMALL LETTER W">w</td><td title="U&#x2B;0057 LATIN CAPITAL LETTER W">W</td><td title="U&#x2B;13A0 CHEROKEE LETTER A">Ꭰ</td><td title="U&#x2B;13A3 CHEROKEE LETTER O">Ꭳ</td></tr><tr><td title="U&#x2B;13A7 CHEROKEE LETTER KA">Ꭷ</td><th title="→ chained dead key 'KH'">Ι</th><th title="→ chained dead key 'KH'">Ι</th><th title="→ chained dead key 'KW'">Η</th><th title="→ chained dead key 'KW'">Η</th><td title="U&#x2B;13A7 CHEROKEE LETTER KA">Ꭷ</td><td title="U&#x2B;13AA CHEROKEE LETTER GO">Ꭺ</td></tr></table></div>
+<div class="group"><table class="" title="k"><tr><th colspan="7">k or K</th></tr><tr><td title="U+0020 SPACE">&nbsp;</td><td title="U&#x2B;13A0 CHEROKEE LETTER A">Ꭰ</td><td title="U&#x2B;13A3 CHEROKEE LETTER O">Ꭳ</td></tr><tr><td title="U&#x2B;13A7 CHEROKEE LETTER KA">Ꭷ</td><td title="U&#x2B;13A7 CHEROKEE LETTER KA">Ꭷ</td><td title="U&#x2B;13AA CHEROKEE LETTER GO">Ꭺ</td></tr></table></div>
 <div class="group"><table class="" title="l or L"><tr><th colspan="7">l</th></tr><tr><td title="U+0020 SPACE">&nbsp;</td><td title="U&#x2B;13A0 CHEROKEE LETTER A">Ꭰ</td><td title="U&#x2B;13A1 CHEROKEE LETTER E">Ꭱ</td><td title="U&#x2B;13A2 CHEROKEE LETTER I">Ꭲ</td><td title="U&#x2B;13A3 CHEROKEE LETTER O">Ꭳ</td><td title="U&#x2B;13A4 CHEROKEE LETTER U">Ꭴ</td><td title="U&#x2B;13A5 CHEROKEE LETTER V">Ꭵ</td></tr><tr><td title="U&#x2B;13B3 CHEROKEE LETTER LA">Ꮃ</td><td title="U&#x2B;13B3 CHEROKEE LETTER LA">Ꮃ</td><td title="U&#x2B;13B4 CHEROKEE LETTER LE">Ꮄ</td><td title="U&#x2B;13B5 CHEROKEE LETTER LI">Ꮅ</td><td title="U&#x2B;13B6 CHEROKEE LETTER LO">Ꮆ</td><td title="U&#x2B;13B7 CHEROKEE LETTER LU">Ꮇ</td><td title="U&#x2B;13B8 CHEROKEE LETTER LV">Ꮈ</td></tr></table></div>
 		<div class="c"></div>
 <div class="group"><table class="" title="x"><tr><th colspan="1">x or X</th></tr><tr><td title="U+0020 SPACE">&nbsp;</td></tr><tr><td title="U&#x2B;0078 LATIN SMALL LETTER X">x</td></tr></table></div>
@@ -71,6 +77,5 @@ item. The keyboard layout follows the Windows 10 Cherokee Nation Phonetic layout
 <div class="group"><table class="" title="n"><tr><th colspan="9">n or N</th></tr><tr><td title="U+0020 SPACE">&nbsp;</td><td title="U&#x2B;0068 LATIN SMALL LETTER H">h</td><td title="U&#x2B;0048 LATIN CAPITAL LETTER H">H</td><td title="U&#x2B;13A0 CHEROKEE LETTER A">Ꭰ</td><td title="U&#x2B;13A1 CHEROKEE LETTER E">Ꭱ</td><td title="U&#x2B;13A2 CHEROKEE LETTER I">Ꭲ</td><td title="U&#x2B;13A3 CHEROKEE LETTER O">Ꭳ</td><td title="U&#x2B;13A4 CHEROKEE LETTER U">Ꭴ</td><td title="U&#x2B;13A5 CHEROKEE LETTER V">Ꭵ</td></tr><tr><td title="U&#x2B;13BE CHEROKEE LETTER NA">Ꮎ</td><td title="U&#x2B;13C0 CHEROKEE LETTER NAH">Ꮐ</td><td title="U&#x2B;13C0 CHEROKEE LETTER NAH">Ꮐ</td><td title="U&#x2B;13BE CHEROKEE LETTER NA">Ꮎ</td><td title="U&#x2B;13C1 CHEROKEE LETTER NE">Ꮑ</td><td title="U&#x2B;13C2 CHEROKEE LETTER NI">Ꮒ</td><td title="U&#x2B;13C3 CHEROKEE LETTER NO">Ꮓ</td><td title="U&#x2B;13C4 CHEROKEE LETTER NU">Ꮔ</td><td title="U&#x2B;13C5 CHEROKEE LETTER NV">Ꮕ</td></tr></table></div>
 <div class="group"><table class="" title="m"><tr><th colspan="6">m or M</th></tr><tr><td title="U+0020 SPACE">&nbsp;</td><td title="U&#x2B;13A0 CHEROKEE LETTER A">Ꭰ</td><td title="U&#x2B;13A1 CHEROKEE LETTER E">Ꭱ</td><td title="U&#x2B;13A2 CHEROKEE LETTER I">Ꭲ</td><td title="U&#x2B;13A3 CHEROKEE LETTER O">Ꭳ</td><td title="U&#x2B;13A4 CHEROKEE LETTER U">Ꭴ</td></tr><tr><td title="U&#x2B;13B9 CHEROKEE LETTER MA">Ꮉ</td><td title="U&#x2B;13B9 CHEROKEE LETTER MA">Ꮉ</td><td title="U&#x2B;13BA CHEROKEE LETTER ME">Ꮊ</td><td title="U&#x2B;13BB CHEROKEE LETTER MI">Ꮋ</td><td title="U&#x2B;13BC CHEROKEE LETTER MO">Ꮌ</td><td title="U&#x2B;13BD CHEROKEE LETTER MU">Ꮍ</td></tr></table></div>
 		<div class="c"></div>
-<h2>Desktop Keyboard Layout</h2>
-<div id='osk' data-states='default shift'>
-</div>
+
+	</div>
